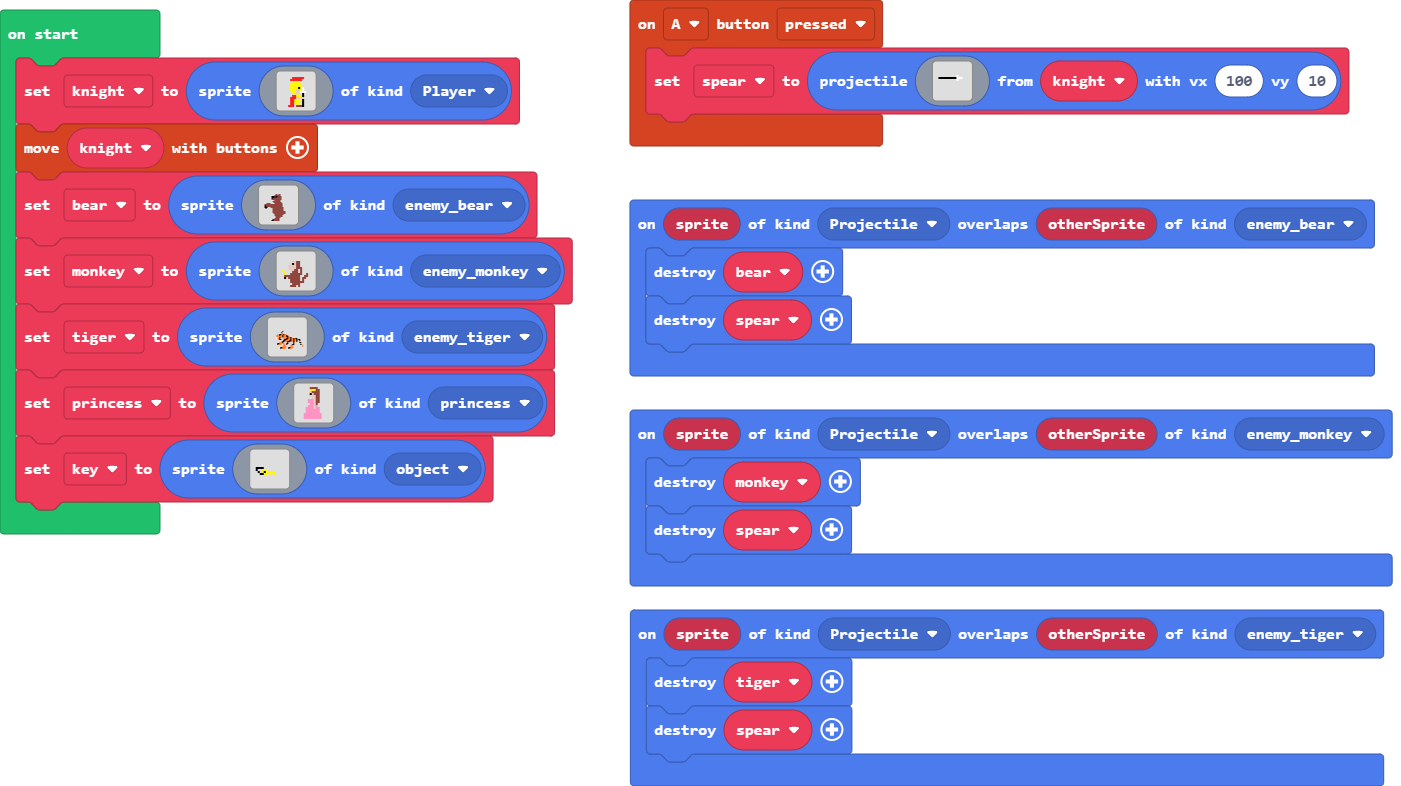
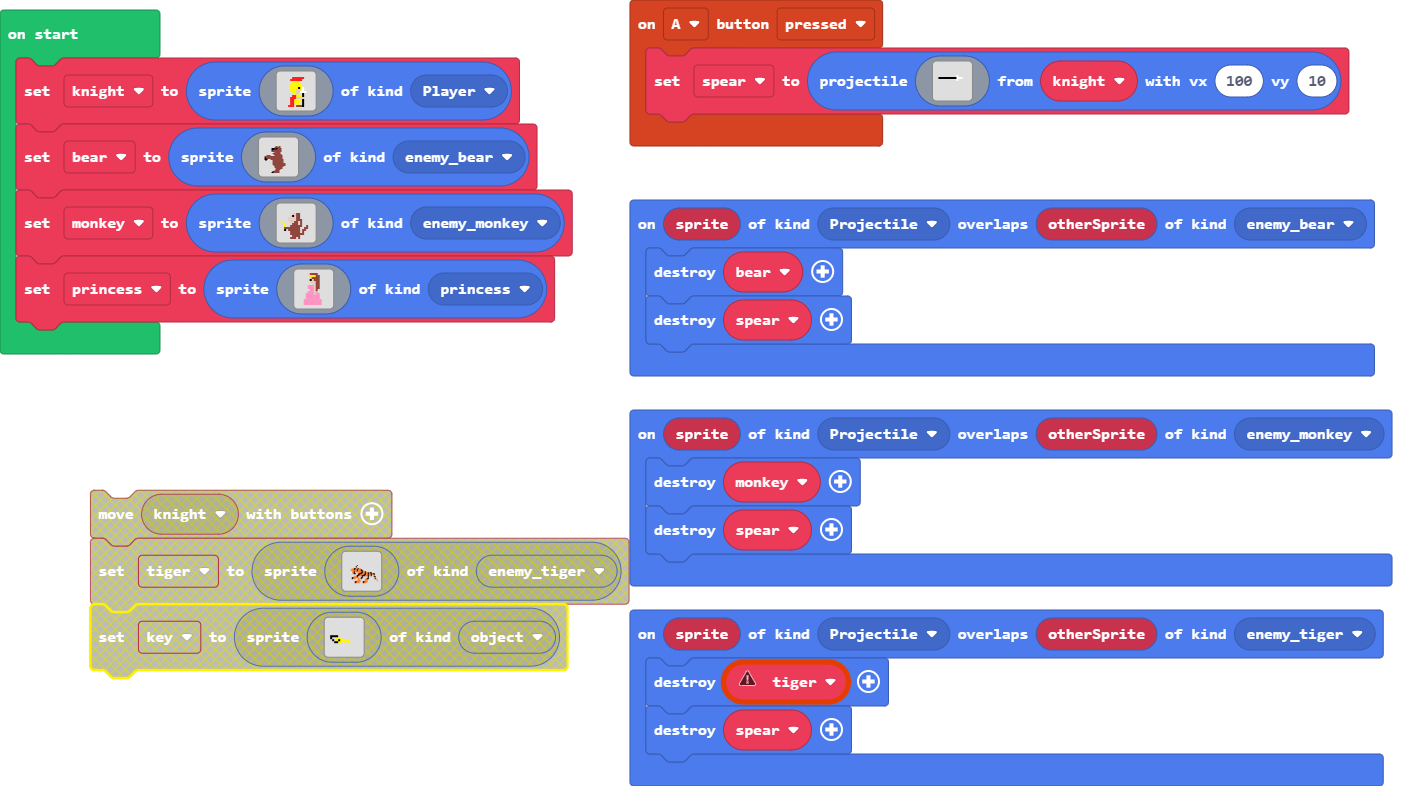
Update main.blocks, main.ts

diff --git a/main.ts b/main.ts
@@ -31,6 +31,7 @@ sprites.onOverlap(SpriteKind.Projectile, SpriteKind.enemy_bear, function (sprite
     spear.destroy()
 })
 sprites.onOverlap(SpriteKind.Projectile, SpriteKind.enemy_tiger, function (sprite, otherSprite) {
+    let tiger: Sprite = null
     tiger.destroy()
     spear.destroy()
 })
@@ -39,7 +40,6 @@ sprites.onOverlap(SpriteKind.Projectile, SpriteKind.enemy_monkey, function (spri
     spear.destroy()
 })
 let spear: Sprite = null
-let tiger: Sprite = null
 let monkey: Sprite = null
 let bear: Sprite = null
 let knight: Sprite = null
@@ -61,7 +61,6 @@ knight = sprites.create(img`
     . . . . . 2 2 . 5 5 . f . . . . 
     . . . . 2 2 2 . e e e f . . . . 
     `, SpriteKind.Player)
-controller.moveSprite(knight)
 bear = sprites.create(img`
     ................................
     ................................
@@ -114,40 +113,6 @@ monkey = sprites.create(img`
     . . . . . . e e e e . . . . . . 
     . . . . . e e e . e . . . . . . 
     `, SpriteKind.enemy_monkey)
-tiger = sprites.create(img`
-    ................................
-    ................................
-    ................................
-    ................................
-    ................................
-    ................................
-    ................................
-    ................................
-    ................................
-    ................................
-    ...........f....................
-    ..........f1....................
-    ........dd44....................
-    ......4dff44f44.................
-    .....444f44f444f4...............
-    .....444444f444ff4..............
-    .....133f4444444f44f4...........
-    .....144fddd444ff44f44f4ff......
-    .......4ffdd4fff444f44f44f4ff...
-    ...........dff4444ff44f44f4df...
-    ..........4ff444fff444f4df.d4...
-    ........444fddddfdddddfdd...ff..
-    ......ff44444ddffdddddf.....d4..
-    ......f444..44df...d4ff.....df4.
-    ............44d....444........d4
-    ...........4444....444.........4
-    .........ff4444..ff444..........
-    .........f4444...f444...........
-    ................................
-    ................................
-    ................................
-    ................................
-    `, SpriteKind.enemy_tiger)
 let princess = sprites.create(img`
     . . . . . . 2 e e e . . . . . . 
     . . . . . . 5 5 5 e e . . . . . 
@@ -166,21 +131,3 @@ let princess = sprites.create(img`
     . . . 3 3 3 3 3 3 3 3 3 . . . . 
     . . . 3 3 3 3 3 3 3 3 3 . . . . 
     `, SpriteKind.princess)
-let key = sprites.create(img`
-    . . . . . . . . . . . . . . . . 
-    . . . . . . . . . . . . . . . . 
-    . . . . . . . . . . . . . . . . 
-    . . . . . . . . . . . . . . . . 
-    . . . . . . . . . . . . . . . . 
-    . . . . . . . . . . . . . . . . 
-    . . . . . . . . . . . . . . . . 
-    . f f f f . . . . . . . . . . . 
-    . f . . 5 5 5 . . . . . . . . . 
-    . . f . 5 f 5 5 5 5 5 . . . . . 
-    . . . f f 5 5 . 5 . 5 . . . . . 
-    . . . . . . . . . . . . . . . . 
-    . . . . . . . . . . . . . . . . 
-    . . . . . . . . . . . . . . . . 
-    . . . . . . . . . . . . . . . . 
-    . . . . . . . . . . . . . . . . 
-    `, SpriteKind.object)
